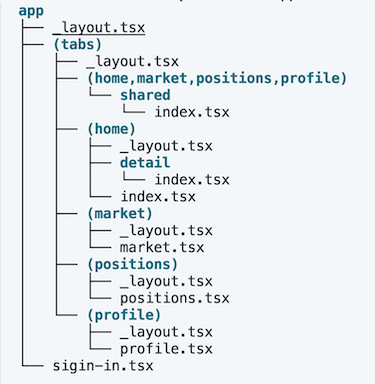
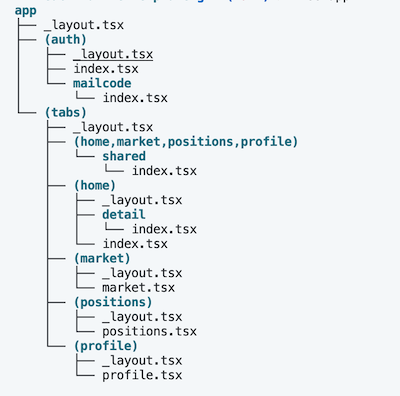
[A] Add auth context

Changed region(s): [[0.0293, 0.0, 0.9387, 0.9688]]

diff --git a/biz/contexts/AuthContext.tsx b/biz/contexts/AuthContext.tsx
@@ -1,0 +1,57 @@
+import { router, useSegments } from "expo-router"
+import React, { createContext, useCallback, useContext, useEffect, useState, type PropsWithChildren } from "react"
+
+interface States {
+  isLoggedIn: boolean
+}
+
+interface Actions {
+  onLogin: () => void
+  onLogout: () => void
+}
+
+type SessionContextType = States & Actions
+
+const SessionContext = createContext<SessionContextType | undefined>(undefined)
+
+export const SessionProvider = ({ children }: PropsWithChildren) => {
+  const segments = useSegments()
+
+  const [isLoggedIn, setIsLoggedIn] = useState<boolean>(false)
+  const onLogin = useCallback(() => {
+    setIsLoggedIn(true)
+  }, [])
+  const onLogout = useCallback(() => {
+    setIsLoggedIn(false)
+  }, [])
+
+  useEffect(() => {
+    const inAuthGroup = segments[0] === "(auth)"
+    console.log('isLogin', isLoggedIn)
+    if (isLoggedIn && inAuthGroup) {
+      router.replace('/(tabs)')
+    } else if (!inAuthGroup && !isLoggedIn) {
+      router.replace('/(auth)')
+    }
+  }, [isLoggedIn])
+
+  return (
+    <SessionContext.Provider
+      value={{
+        isLoggedIn,
+        onLogin,
+        onLogout
+      }}
+    >
+      {children}
+    </SessionContext.Provider>
+  )
+}
+
+export const useSessionContext = () => {
+  const context = useContext(SessionContext)
+  if (!context) {
+    throw new Error("useSessionContext must be used within an SessionProvider")
+  }
+  return context
+}

diff --git a/components/Container.tsx b/components/Container.tsx
@@ -1,10 +1,13 @@
+import React from 'react';
 import { SafeAreaView, View } from 'react-native';
+import { DefaultViewProps } from './ViewPropsExt';
+import { AppColors } from '@/constants/Themes';
 
-
-export const SafeContainer = ({ children }: { children: React.ReactNode }) => {
-  return <SafeAreaView className='flex flex-1 bg-white'>{children}</SafeAreaView>;
+export const SafeContainer = ({ style, ...rest }: DefaultViewProps) => {
+  return <SafeAreaView style={[{ flex: 1, backgroundColor: AppColors.background_white }, style]} {...rest} />
 }
 
-export const Container = ({ children }: { children: React.ReactNode }) => {
-  return <View className='flex flex-1 bg-white'>{children}</View>;
+export const Container = ({ style, ...rest }: DefaultViewProps) => {
+  return <View style={[{ flex: 1, backgroundColor: AppColors.background_white }, style]} {...rest} />
+
 }

diff --git a/app/(tabs)/(profile)/profile.tsx b/app/(tabs)/(profile)/profile.tsx
@@ -1,13 +1,19 @@
-import { View, Text } from 'react-native'
 import React from 'react'
+import { useSessionContext } from '@/biz/contexts/AuthContext'
+import AppButton from '@/components/AppButton'
+import { Container } from '@/components/Container'
+import { SPACING } from '@/constants/Themes'
+import { Stack } from 'expo-router'
 
 const ProfilePage = () => {
+  const { onLogout } = useSessionContext()
   return (
-    <View className='flex flex-1 justify-center'>
-      {/* use style define styles */}
-      <Text style={{ textAlign: 'center' }}>ProfilePage</Text>
-    </View>
-
+    <Container style={{ justifyContent: 'center', marginHorizontal: SPACING.edge }}>
+      <Stack.Screen options={{
+        headerShown: false
+      }} />
+      <AppButton title='Logout' onPress={onLogout} />
+    </Container>
   )
 }
 

diff --git a/app/(auth)/index.tsx b/app/(auth)/index.tsx
@@ -1,0 +1,20 @@
+import { useSessionContext } from '@/biz/contexts/AuthContext'
+import AppButton from '@/components/AppButton'
+import { SafeContainer } from '@/components/Container'
+import { SPACING } from '@/constants/Themes'
+import { Stack } from 'expo-router'
+import React from 'react'
+
+const SignInPage = () => {
+  const { onLogin } = useSessionContext()
+  return (
+    <SafeContainer style={{ justifyContent: 'center', marginHorizontal: SPACING.edge }}>
+      <Stack.Screen options={{
+        headerShown: false
+      }} />
+      <AppButton title='Login' onPress={onLogin} />
+    </SafeContainer>
+  )
+}
+
+export default SignInPage

diff --git a/components/AppButton.tsx b/components/AppButton.tsx
@@ -1,10 +1,10 @@
-import { EmptyCallback } from 'extensions/Callbacks'
+import { AppColors, AppFontSize, AppFontFamily } from '@/constants/Themes'
+import { EmptyCallback } from '@/extensions/Callbacks'
 import React from 'react'
 import { Pressable } from 'react-native'
 import { SingleLineText } from './AppText'
-import { DefaultViewProps } from './ViewPropsExt'
 import { ItemsCenterContainer } from './ItemsCenterContainer'
-import { AppColors, AppFontFamily, AppFontSize } from 'constants/Themes'
+import { DefaultViewProps } from './ViewPropsExt'
 
 export type ThemeButtonProps = DefaultViewProps & {
   title: string

diff --git a/app/(tabs)/_layout.tsx b/app/(tabs)/_layout.tsx
@@ -1,10 +1,12 @@
 import { StyleSheet, View } from 'react-native'
 import { Tabs } from 'expo-router'
-import { AppText } from 'components/AppText'
-import { AppColors, AppFontSize } from 'constants/Themes'
 import { MaterialCommunityIcons, MaterialIcons } from '@expo/vector-icons'
+import { AppText } from '@/components/AppText'
+import { AppColors, AppFontSize } from '@/constants/Themes'
+import React from 'react'
 
 export default function TabLayout() {
+
   return <Tabs>
     <Tabs.Screen name='(home)' options={{
       tabBarLabel: ({ focused }) => {

diff --git a/app/(auth)/_layout.tsx b/app/(auth)/_layout.tsx
@@ -2,11 +2,10 @@ import React from 'react'
 import { Stack } from 'expo-router'
 import { AppColors } from '@/constants/Themes'
 
-export default function MarketPageLayout() {
+export default function SignInLayout() {
   return <Stack screenOptions={{
-    title: 'Market',
     contentStyle: { backgroundColor: AppColors.background_white },
     headerBackButtonDisplayMode: 'minimal',
-    headerTintColor: AppColors.text_black
+    headerTintColor: AppColors.text_black,
   }} />
 }

diff --git a/app/(tabs)/(home)/index.tsx b/app/(tabs)/(home)/index.tsx
@@ -1,9 +1,8 @@
 import React from 'react'
-import { Container } from 'components/Container'
-import AppButton from 'components/AppButton'
 import { router } from 'expo-router'
 import { View } from 'react-native'
-import { AppColors } from 'constants/Themes'
+import AppButton from '@/components/AppButton'
+import { Container } from '@/components/Container'
 
 const HomePage = () => {
   return (

diff --git a/app/(tabs)/(market)/market.tsx b/app/(tabs)/(market)/market.tsx
@@ -1,8 +1,8 @@
 import { View, Text } from 'react-native'
 import React from 'react'
-import AppButton from 'components/AppButton'
-import { Container } from 'components/Container'
 import { router } from 'expo-router'
+import AppButton from '@/components/AppButton'
+import { Container } from '@/components/Container'
 
 const MarketPage = () => {
   return (

diff --git a/app/(auth)/mailcode/index.tsx b/app/(auth)/mailcode/index.tsx
@@ -1,12 +1,12 @@
 import { View, Text } from 'react-native'
 import React from 'react'
 
-const SignInPage = () => {
+const MailCodeInputPage = () => {
   return (
     <View>
-      <Text>SignInPage</Text>
+      <Text>MailCodeInputPage</Text>
     </View>
   )
 }
 
-export default SignInPage
+export default MailCodeInputPage

diff --git a/components/AppText.tsx b/components/AppText.tsx
@@ -1,6 +1,7 @@
 import { Text } from "react-native"
 import { DefaultTextProps } from "./ViewPropsExt"
-import { AppColors, AppFontFamily, AppFontSize } from "constants/Themes"
+import { AppFontFamily, AppFontSize, AppColors } from "@/constants/Themes"
+import React from "react"
 
 export function AppText({
   style,

diff --git a/components/ItemsCenterContainer.tsx b/components/ItemsCenterContainer.tsx
@@ -1,6 +1,7 @@
 
 import { View } from "react-native"
 import { DefaultViewProps } from "./ViewPropsExt"
+import React from "react"
 
 export function ItemsCenterContainer({ style, ...rest }: DefaultViewProps) {
   return <View style={[{ alignItems: 'center', justifyContent: 'center' }, style]} {...rest} />
